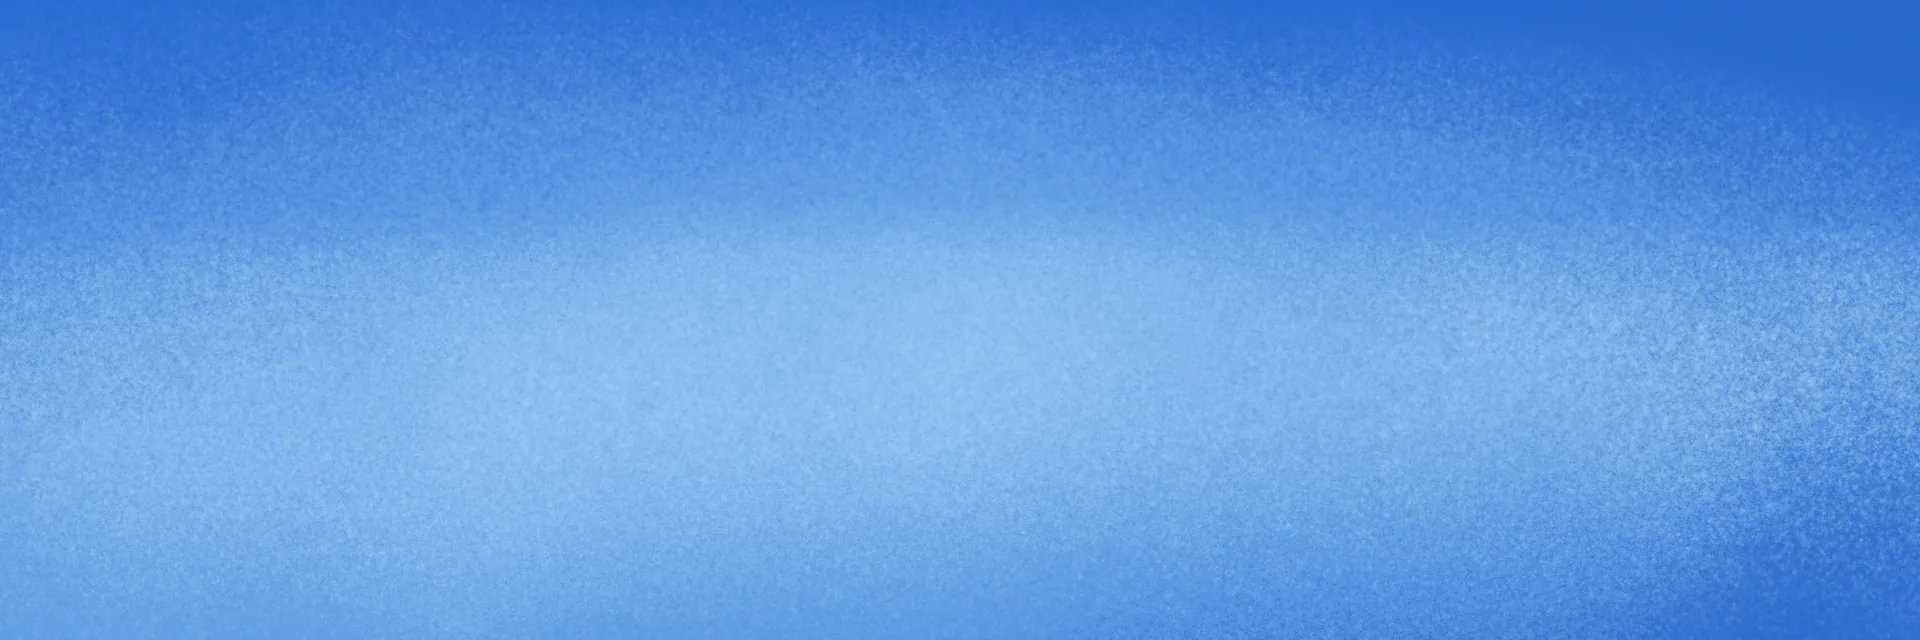
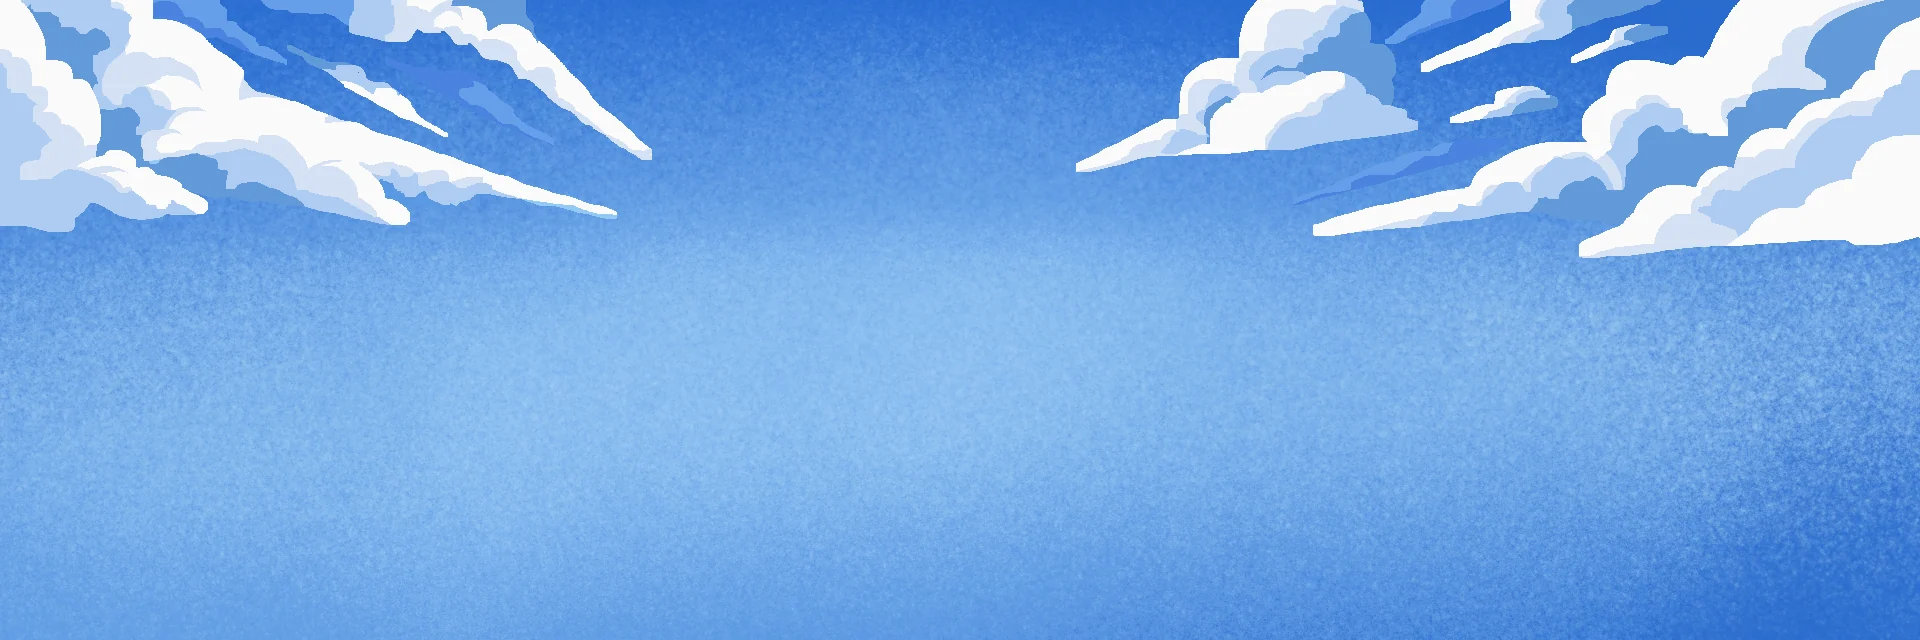
adding mobile support

Changed region(s): [[0.5625, 0.0, 1.0, 0.4062], [0.0, 0.0, 0.3438, 0.375]]

diff --git a/src/components/Portfolio.tsx b/src/components/Portfolio.tsx
@@ -1,7 +1,14 @@
 import { useEffect, useRef, useState } from "react";
 import "./Portfolio.css";
 
-const HERO_NEAR = new URL("../assets/hero_bg.png", import.meta.url).href;
+const CAFE_LAYERS = [
+  new URL("../assets/cafe/background.png", import.meta.url).href,
+  new URL("../assets/cafe/objects.png", import.meta.url).href,
+  new URL("../assets/cafe/counter.png", import.meta.url).href,
+  new URL("../assets/cafe/foreground.png", import.meta.url).href,
+];
+const ART_MIN = 1200;
+const DAYS = ["sunday","monday","tuesday","wednesday","thursday","friday","saturday"];
 
 const EXPERIENCE = [
   {
@@ -81,6 +88,16 @@ function sunAltitude(t: number): number {
 const SKY_HORIZON = -0.833;
 const SKY_TWILIGHT = -12;
 
+const SKY_CYCLE = ["night", "dawn", "sunrise", "day", "sunset", "dusk"];
+const SKY_URL: Record<string, string> = {
+  night: new URL("../assets/sky/night.webp", import.meta.url).href,
+  dawn: new URL("../assets/sky/dawn.webp", import.meta.url).href,
+  sunrise: new URL("../assets/sky/sunrise.webp", import.meta.url).href,
+  day: new URL("../assets/sky/day.webp", import.meta.url).href,
+  sunset: new URL("../assets/sky/sunset.webp", import.meta.url).href,
+  dusk: new URL("../assets/sky/dusk.webp", import.meta.url).href,
+};
+
 function skyPhase(now: number = Date.now()) {
   const alt = sunAltitude(now);
   const rising = alt > sunAltitude(now - 600000);
@@ -97,46 +114,98 @@ const LINKS = {
 };
 
 export default function Portfolio() {
-  const [sky, setSky] = useState(skyPhase);
+  const [skyA, setSkyA] = useState(skyPhase);
+  const [skyB, setSkyB] = useState<string | undefined>(undefined);
+  const [onB, setOnB] = useState(false);
+  const [day, setDay] = useState(() => DAYS[new Date().getDay()]);
+  const sky = onB ? (skyB as string) : skyA;
+
   useEffect(() => {
-    const id = setInterval(() => setSky(skyPhase()), 60000);
+    const id = setInterval(() => {
+      const next = skyPhase();
+      setDay(DAYS[new Date().getDay()]);
+      setOnB((b) => {
+        if (next === (b ? skyB : skyA)) return b;
+        if (b) setSkyA(next); else setSkyB(next);
+        return !b;
+      });
+    }, 60000);
     return () => clearInterval(id);
-  }, []);
+  }, [skyA, skyB]);
+
+  useEffect(() => {
+    const i = SKY_CYCLE.indexOf(sky);
+    if (i < 0) return;
+    const im = new Image();
+    im.src = SKY_URL[SKY_CYCLE[(i + 1) % SKY_CYCLE.length]];
+  }, [sky]);
 
   const [view, setView] = useState<"inside" | "outside">("inside");
   const [anim, setAnim] = useState<"out" | "in" | undefined>(undefined);
   const [hot, setHot] = useState(false);
+  const [navOpen, setNavOpen] = useState(false);
+
+  const navRef = useRef<HTMLElement | null>(null);
+
+  useEffect(() => {
+    if (!navOpen) return;
+    const esc = (e: KeyboardEvent) => { if (e.key === "Escape") setNavOpen(false); };
+    const away = (e: PointerEvent) => {
+      if (!navRef.current?.contains(e.target as Node)) setNavOpen(false);
+    };
+    window.addEventListener("keydown", esc);
+    document.addEventListener("pointerdown", away);
+    return () => {
+      window.removeEventListener("keydown", esc);
+      document.removeEventListener("pointerdown", away);
+    };
+  }, [navOpen]);
   const heroRef = useRef<HTMLElement | null>(null);
   const artRef = useRef<HTMLDivElement | null>(null);
   const maskRef = useRef<{ w: number; h: number; a: Uint8Array } | null>(null);
 
   useEffect(() => {
-    const img = new Image();
-    img.src = HERO_NEAR;
-    img.onload = () => {
-      const c = document.createElement("canvas");
-      c.width = img.naturalWidth;
-      c.height = img.naturalHeight;
-      const g = c.getContext("2d");
-      if (!g) return;
-      g.drawImage(img, 0, 0);
-      const d = g.getImageData(0, 0, c.width, c.height).data;
-      const a = new Uint8Array(c.width * c.height);
-      for (let i = 0; i < a.length; i++) a[i] = d[i * 4 + 3];
-      maskRef.current = { w: c.width, h: c.height, a };
-    };
+    let alive = true;
+    Promise.all(
+      CAFE_LAYERS.map(
+        (src) =>
+          new Promise<HTMLImageElement>((res, rej) => {
+            const im = new Image();
+            im.onload = () => res(im);
+            im.onerror = rej;
+            im.src = src;
+          })
+      )
+    )
+      .then((imgs) => {
+        if (!alive) return;
+        const c = document.createElement("canvas");
+        c.width = imgs[0].naturalWidth;
+        c.height = imgs[0].naturalHeight;
+        const g = c.getContext("2d");
+        if (!g) return;
+        imgs.forEach((im) => g.drawImage(im, 0, 0));
+        const d = g.getImageData(0, 0, c.width, c.height).data;
+        const a = new Uint8Array(c.width * c.height);
+        for (let i = 0; i < a.length; i++) a[i] = d[i * 4 + 3];
+        maskRef.current = { w: c.width, h: c.height, a };
+      })
+      .catch(() => {});
+    return () => { alive = false; };
   }, []);
 
   const holeAt = (cx: number, cy: number) => {
     const m = maskRef.current;
     const el = artRef.current;
-    if (!m || !el || window.innerWidth <= 1000) return null;
+    if (!m || !el || window.innerWidth <= 800) return null;
     const r = el.getBoundingClientRect();
-    const px = (cx - r.left) / r.width;
-    const py = (cy - r.top) / r.height;
+    const drawW = Math.max(ART_MIN, r.width);
+    const px = (cx - (r.left + (r.width - drawW) / 2)) / drawW;
+    const py = (cy - r.top) / (drawW * m.h / m.w);
     if (px < 0 || py < 0 || px > 1 || py > 1) return null;
     const i = Math.floor(py * m.h) * m.w + Math.floor(px * m.w);
-    return m.a[i] < 8 ? { px, py } : null;
+    const ex = ((r.width - drawW) / 2 + px * drawW) / r.width;
+    return m.a[i] < 8 ? { px, py, ex } : null;
   };
 
   const onHeroClick = (e: React.MouseEvent) => {
@@ -144,7 +213,7 @@ export default function Portfolio() {
     if (view === "outside") { setView("inside"); setAnim("in"); return; }
     const hit = holeAt(e.clientX, e.clientY);
     if (!hit) return;
-    heroRef.current?.style.setProperty("--ox", `${(hit.px * 100).toFixed(2)}%`);
+    heroRef.current?.style.setProperty("--ox", `${(hit.ex * 100).toFixed(2)}%`);
     heroRef.current?.style.setProperty("--oy", `${(hit.py * 100).toFixed(2)}%`);
     setView("outside");
     setAnim("out");
@@ -174,9 +243,17 @@ export default function Portfolio() {
 
       <header className="pf-header">
         <div className="wrap">
-          <nav>
+          <nav ref={navRef} data-open={navOpen ? "1" : undefined}>
             <a className="brand" href="#top"><span className="seal">LC</span> Linda&nbsp;Chen</a>
-            <ul className="navlinks">
+            <button
+              className="navtoggle"
+              aria-label="Menu"
+              aria-expanded={navOpen}
+              onClick={() => setNavOpen((o) => !o)}
+            >
+              <span /><span /><span />
+            </button>
+            <ul className="navlinks" onClick={() => setNavOpen(false)}>
               <li><a href="#about">About</a></li>
               <li><a href="#experience">Experience</a></li>
               <li><a href="#projects">Projects</a></li>
@@ -190,7 +267,7 @@ export default function Portfolio() {
         <section
           className="hero"
           ref={heroRef}
-          data-sky={sky}
+          data-day={day}
           data-view={view}
           data-anim={anim}
           data-hot={hot ? "1" : undefined}
@@ -199,8 +276,14 @@ export default function Portfolio() {
           onMouseLeave={() => setHot(false)}
         >
           <div className="hero-art" ref={artRef} aria-hidden="true">
+            <div className="hero-scene hero-sky" data-sky={skyA} data-on={onB ? undefined : "1"} />
+            <div className="hero-scene hero-sky" data-sky={skyB} data-on={onB ? "1" : undefined} />
             <div className="hero-scene hero-far" />
-            <div className="hero-scene hero-inside" />
+            <div className="hero-cafe">
+              <div className="hero-scene cafe-back" />
+              <div className="hero-scene cafe-day" />
+              <div className="hero-scene cafe-front" />
+            </div>
           </div>
           <div className="hero-card">
             <h1>Linda <em>Chen</em></h1>

diff --git a/src/components/Portfolio.css b/src/components/Portfolio.css
@@ -34,18 +34,25 @@
   opacity:0;transform:translateX(-4px);transition:opacity .12s,transform .12s;}
 .pf .navlinks a:hover,.pf .navlinks a:focus-visible{color:var(--jade);outline:none;}
 .pf .navlinks a:hover::before,.pf .navlinks a:focus-visible::before{opacity:1;transform:none;}
+.pf .navtoggle{display:none;background:none;border:none;cursor:pointer;
+  width:34px;height:28px;flex-direction:column;justify-content:space-between;padding:4px 0;}
+.pf .navtoggle span{display:block;height:3px;width:100%;background:var(--ink);transition:transform .18s,opacity .18s;}
+.pf nav[data-open] .navtoggle span:nth-child(1){transform:translateY(8.5px) rotate(45deg);}
+.pf nav[data-open] .navtoggle span:nth-child(2){opacity:0;}
+.pf nav[data-open] .navtoggle span:nth-child(3){transform:translateY(-8.5px) rotate(-45deg);}
 
 .pf .hero{
   position:relative;isolation:isolate;
   width:100vw;margin-left:calc(50% - 50vw);
-  min-height:33.3333vw;
+  min-height:max(400px,33.3333vw);
   padding:3.3333vw 27.5vw 2.5vw;
   background-color:#503c35;
 }
 .pf .hero-art{position:absolute;z-index:-1;inset:0;overflow:hidden;pointer-events:none;}
 .pf .hero-scene{
   position:absolute;inset:0;
-  background-position:center top;background-size:100% auto;background-repeat:no-repeat;
+  background-position:clamp(-180px,100vw - 1200px,0px) top;
+  background-size:max(1200px,100%) auto;background-repeat:no-repeat;
   transform-origin:var(--ox,50%) var(--oy,50%);
 }
 @keyframes pf-stoop{
@@ -60,35 +67,48 @@
   25%  {                      opacity:1;}
   100% {transform:scale(1);   opacity:1;}
 }
-.pf .hero[data-anim] .hero-inside{will-change:transform,opacity;backface-visibility:hidden;}
-.pf .hero[data-anim="out"] .hero-inside{animation:pf-stoop 0.85s both;}
-.pf .hero[data-anim="in"] .hero-inside{animation:pf-return .85s cubic-bezier(.2,.7,.3,1) both;}
+.pf .hero-cafe{position:absolute;inset:0;transform-origin:var(--ox,50%) var(--oy,50%);}
+.pf .hero[data-anim] .hero-cafe{will-change:transform,opacity;backface-visibility:hidden;}
+.pf .hero[data-anim="out"] .hero-cafe{animation:pf-stoop 0.85s both;}
+.pf .hero[data-anim="in"] .hero-cafe{animation:pf-return .85s cubic-bezier(.2,.7,.3,1) both;}
 .pf .hero-far{
   background-image:url("../assets/hero_bg_far.png");
   transition:none;
 }
-.pf .hero-inside{
-  background-image:url("../assets/hero_bg.png");
+.pf .cafe-back{
+  background-image:url("../assets/cafe/objects.png"),url("../assets/cafe/background.png");
 }
-.pf .hero[data-view="outside"] .hero-inside{opacity:0;transform:scale(9);}
+.pf .cafe-front{
+  background-image:url("../assets/cafe/foreground.png"),url("../assets/cafe/counter.png");
+}
+.pf .hero[data-day="sunday"] .cafe-day{background-image:url("../assets/cafe/day/sunday.png");}
+.pf .hero[data-day="monday"] .cafe-day{background-image:url("../assets/cafe/day/monday.png");}
+.pf .hero[data-day="tuesday"] .cafe-day{background-image:url("../assets/cafe/day/tuesday.png");}
+.pf .hero[data-day="wednesday"] .cafe-day{background-image:url("../assets/cafe/day/wednesday.png");}
+.pf .hero[data-day="thursday"] .cafe-day{background-image:url("../assets/cafe/day/thursday.png");}
+.pf .hero[data-day="friday"] .cafe-day{background-image:url("../assets/cafe/day/friday.png");}
+.pf .hero[data-day="saturday"] .cafe-day{background-image:url("../assets/cafe/day/saturday.png");}
+.pf .hero[data-view="outside"] .hero-cafe{opacity:0;transform:scale(9);}
 .pf .hero[data-hot="1"]{cursor:pointer;}
-.pf .hero::after{
-  content:"";position:absolute;z-index:-2;inset:0;
-  background-position:center top;background-size:100% auto;background-repeat:no-repeat;
-}
-.pf .hero[data-sky="dawn"]::after{background-image:url("../assets/sky/dawn.webp");}
-.pf .hero[data-sky="sunrise"]::after{background-image:url("../assets/sky/sunrise.webp");}
-.pf .hero[data-sky="day"]::after{background-image:url("../assets/sky/day.webp");}
-.pf .hero[data-sky="sunset"]::after{background-image:url("../assets/sky/sunset.webp");}
-.pf .hero[data-sky="dusk"]::after{background-image:url("../assets/sky/dusk.webp");}
-.pf .hero[data-sky="night"]::after{background-image:url("../assets/sky/night.webp");}
+.pf .hero-sky{opacity:0;transition:opacity 3s ease;}
+.pf .hero-sky{opacity:0;transition:opacity 1.2s ease;}
+.pf .hero-sky[data-on="1"]{opacity:1;}
+.pf .hero-sky[data-sky="dawn"]{background-image:url("../assets/sky/dawn.webp");}
+.pf .hero-sky[data-sky="sunrise"]{background-image:url("../assets/sky/sunrise.webp");}
+.pf .hero-sky[data-sky="day"]{background-image:url("../assets/sky/day.webp");}
+.pf .hero-sky[data-sky="sunset"]{background-image:url("../assets/sky/sunset.webp");}
+.pf .hero-sky[data-sky="dusk"]{background-image:url("../assets/sky/dusk.webp");}
+.pf .hero-sky[data-sky="night"]{background-image:url("../assets/sky/night.webp");}
 .pf .hero-card{
-  position:absolute;left:29.38%;top:87.4%;transform:translate(-50%,-50%);
+  position:absolute;
+  left:calc(clamp(-180px,100vw - 1200px,0px) + max(1200px,100vw) * 0.29375);
+  top:calc(max(1200px,100vw) * 0.29141);
+  transform:translate(-50%,-50%);
   width:fit-content;
   background:rgba(234,235,228,0);
   border:3px solid transparent;
   box-shadow:0 0 0 rgba(23,32,28,0);
-  padding:1vw 1.6vw 1.1vw;
+  padding:max(12px,1vw) max(19.2px,1.6vw) max(13.2px,1.1vw);
   transition:background .5s ease .35s,border-color .5s ease .35s,box-shadow .5s ease .35s;
 }
 .pf .hero-card h1{color:#f4f1e8;transition:color .5s ease .35s;}
@@ -100,7 +120,7 @@
 }
 .pf .hero[data-view="outside"] .hero-card h1{color:var(--ink);}
 .pf .hero[data-view="outside"] .hero-card h1 em{color:var(--jade);}
-.pf .hero h1{font-family:var(--display);font-weight:400;line-height:1.1;letter-spacing:0;font-size:3.3333vw;margin:0;white-space:nowrap;}
+.pf .hero h1{font-family:var(--display);font-weight:400;line-height:1.1;letter-spacing:0;font-size:max(40px,3.3333vw);margin:0;white-space:nowrap;}
 .pf .hero h1 em{font-style:normal;color:var(--jade);}
 .pf .intro{border-top:none;padding:56px 0 64px;}
 .pf .eyebrow{font-family:var(--display);font-size:16px;text-transform:uppercase;letter-spacing:0;color:var(--jade);margin-bottom:24px;}
@@ -167,22 +187,28 @@
 .pf .reveal{opacity:0;transform:translateY(16px);transition:opacity .7s ease,transform .7s ease;}
 .pf .reveal.in{opacity:1;transform:none;}
 
-@media (max-width:1000px){
-  .pf .hero{width:auto;margin-left:0;min-height:0;padding:48px 0 40px;}
-  .pf .hero::before,.pf .hero::after{inset:0 auto 0 50%;width:100vw;transform:translateX(-50%);
-    background-size:cover;}
+@media (max-width:800px){
+  .pf .hero[data-hot="1"]{cursor:default;}
+  .pf .navtoggle{display:flex;}
+  .pf .navlinks{
+    display:none;flex-direction:column;align-items:flex-end;gap:0;
+    position:absolute;top:100%;right:0;z-index:60;
+    width:auto;min-width:180px;
+    background:var(--paper-2);
+    border:3px solid var(--ink);border-top:none;
+    box-shadow:var(--shadow);
+    padding:10px 24px 16px;}
+  .pf nav[data-open] .navlinks{display:flex;}
+  .pf .navlinks li{width:auto;border-top:2px solid var(--line);}
+  .pf .navlinks li:first-child{border-top:none;}
+  .pf .navlinks a{display:block;padding:9px 0 3px;line-height:1;}
+  .pf .navlinks a::before{left:-14px;}
+}
+@media (max-width:640px){
   .pf .eyebrow{font-size:14px;margin-bottom:20px;}
-  .pf .hero h1{font-size:36px;}
-  .pf .lede{font-size:1.15rem;}
   .pf .hero-actions{gap:16px;margin-top:24px;}
   .pf .btn{font-size:14px;padding:12px 20px;}
-  .pf .hero-card{padding:14px 18px 16px;}
   .pf .intro{padding:40px 0 48px;}
-  .pf .hero[data-view="inside"] .hero-card{
-    position:static;transform:none;padding:14px 18px 16px;
-    background:rgba(234,235,228,.93);border:3px solid var(--ink);box-shadow:var(--shadow);}
-  .pf .hero[data-view="inside"] .hero-card h1{color:var(--ink);}
-  .pf .hero[data-view="inside"] .hero-card h1 em{color:var(--jade);}
 }
 @media (max-width:640px){
   .pf .entry{grid-template-columns:1fr;gap:0.3rem;}
